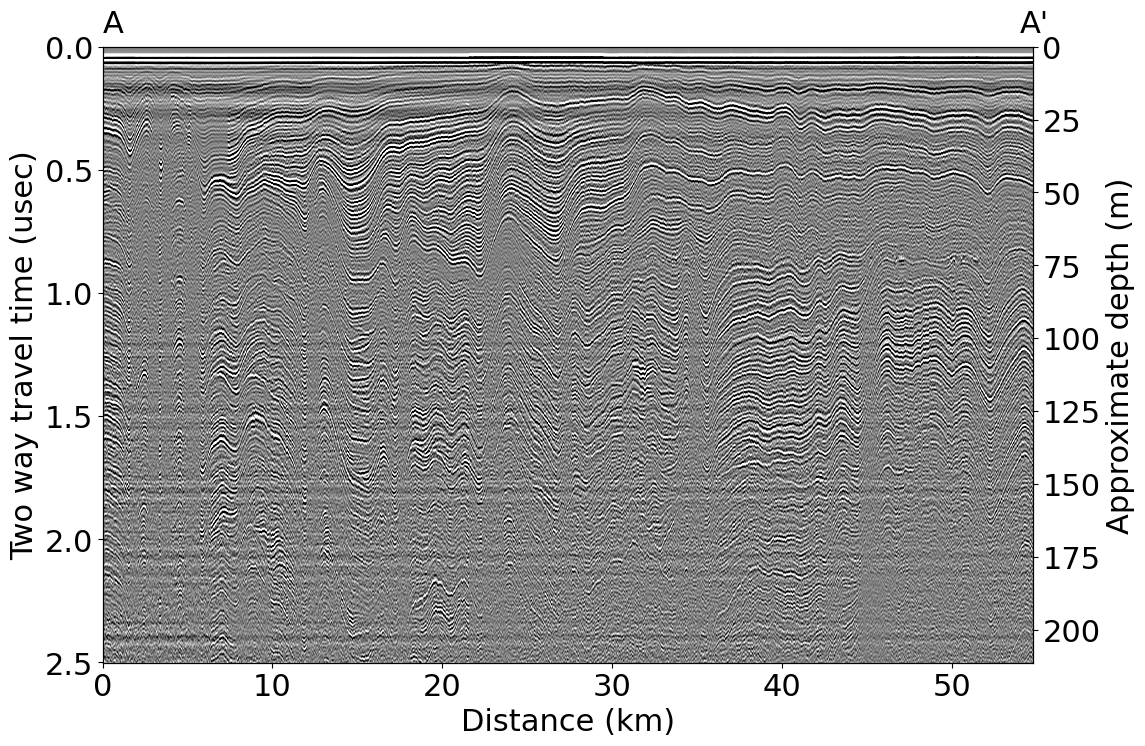
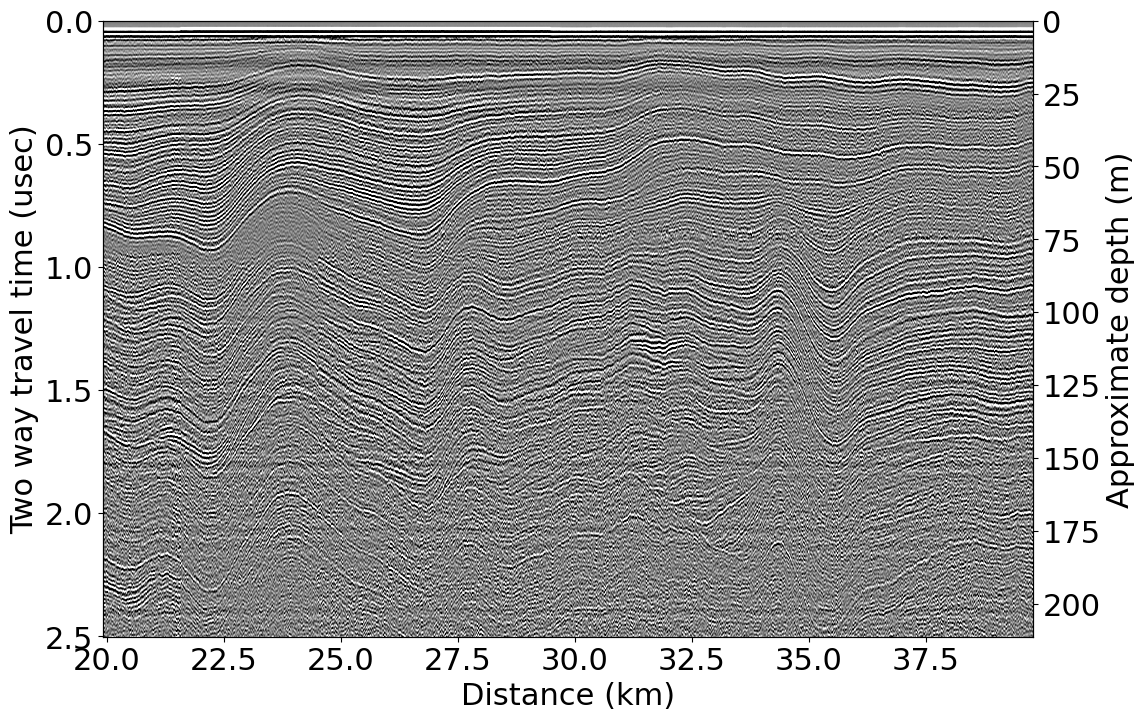
Worked more
not much to say

diff --git a/Src/PulseEKKO/RDTesting.py b/Src/PulseEKKO/RDTesting.py
@@ -80,9 +80,9 @@ font = {'family' : 'normal',
         'size'   : 22}
 matplotlib.rc('font', **font)
 
-[im, xd, yd, x_range, clims] = plot_radargram(datm,x_range=(0, -1), y_range=(0, 2500),return_plotinfo="True",xdat='dist',ydat='dual')
-plt.text(0,-5,'A')
-plt.text(54,-5,'A\'')
+[im, xd, yd, x_range, clims] = plot_radargram(datm,x_range=(2000, 4000), y_range=(0, 2500),return_plotinfo="True",xdat='dist',ydat='dual')
+# plt.text(0,-5,'A')
+# plt.text(54,-5,'A\'')
 plt.savefig('../../Doc/Tex/Figures/PulseEkko/PE.png', bbox_inches='tight')
 #plt.show()
 
